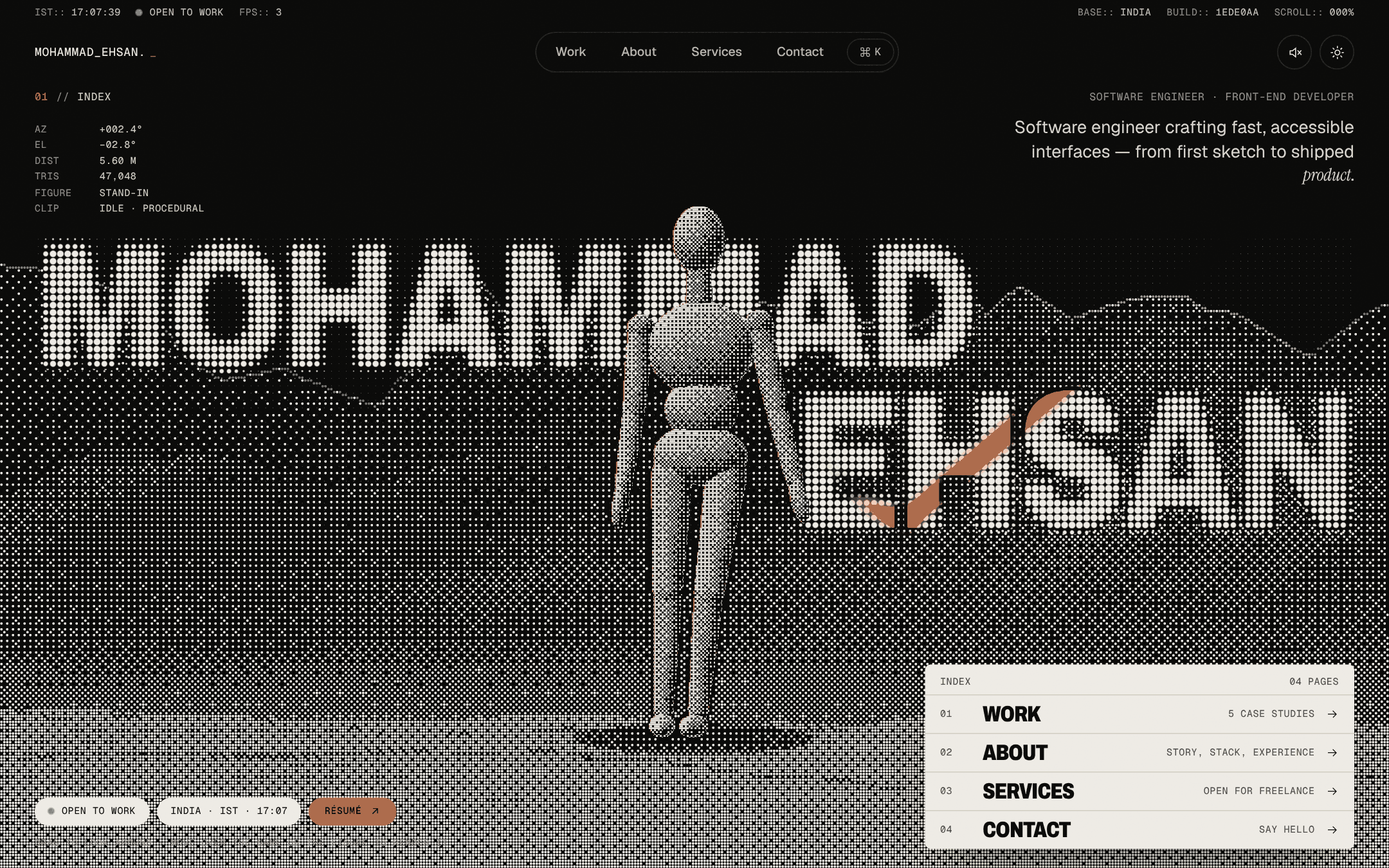
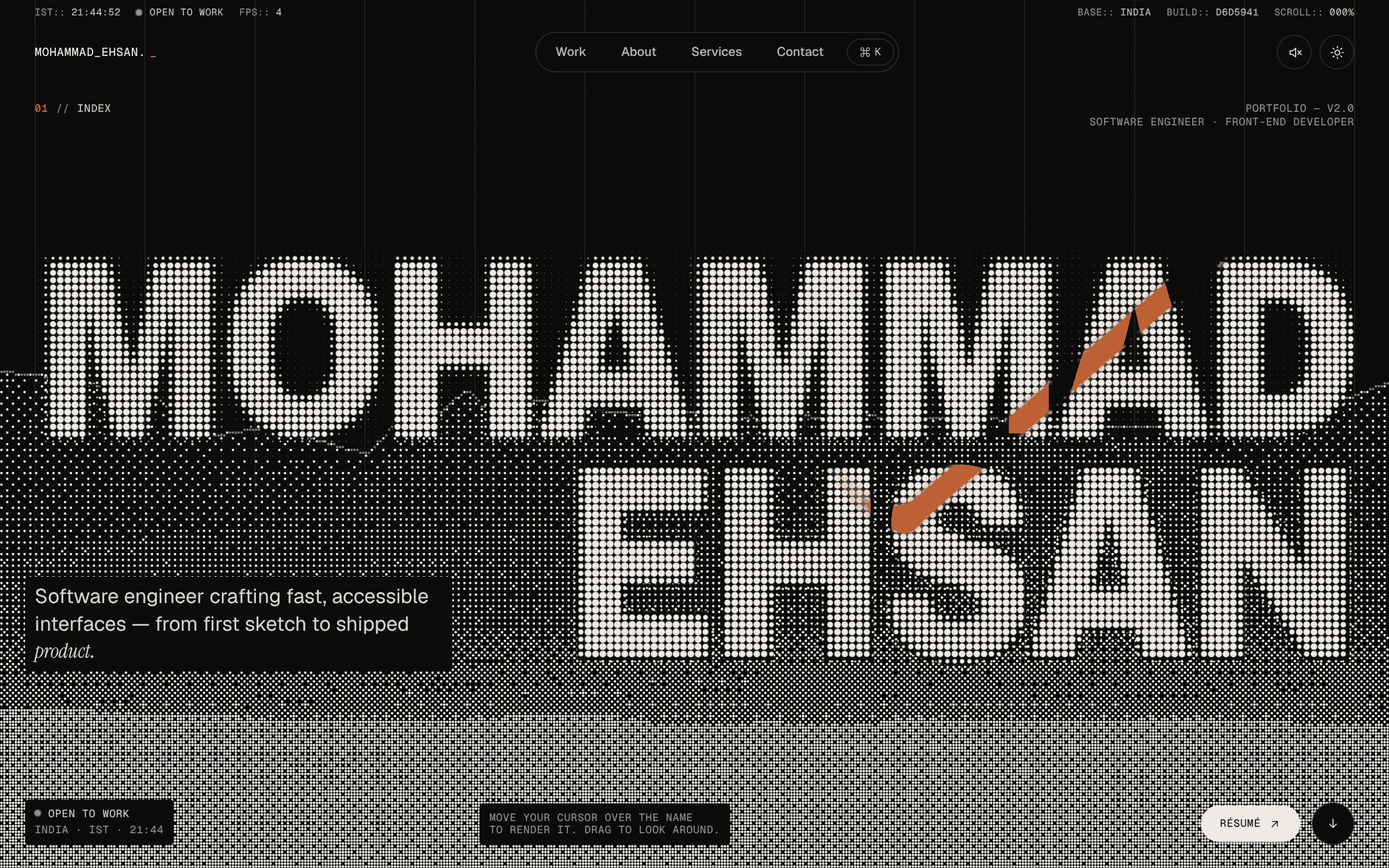
Update the docs and case study for the restored home
The README describes the hero's ridge and how your model stands on it, and drops the mannequin and the ?figure=standin flag. The asset prompts mention the work reel again, and the case study has new hero screenshots in ink and paper.

diff --git a/content/projects.ts b/content/projects.ts
@@ -225,7 +225,7 @@ export const projects: Project[] = [
         type: "features",
         label: "Under the hood",
         items: [
-          { title: "A home page in 3D", body: "A figure on a ring of dithered hills, in front of a halftone name you paint with the cursor. The cursor also renders the figure in full colour, and dragging orbits the camera." },
+          { title: "Ink-field hero", body: "A WebGL halftone of my name over a dithered 3D ridge. Paint it with the cursor, or drag to look around." },
           { title: "Blueprint → render images", body: "Project images render as edge-detected blueprints and resolve to colour with a scanline sweep." },
           { title: "Dither page transitions", body: "An ordered-dither wipe and a shared-element morph between pages." },
           { title: "⌘K command menu", body: "Keyboard-first navigation and actions from anywhere on the site." },
@@ -237,7 +237,7 @@ export const projects: Project[] = [
         label: "Stack",
         items: [
           { name: "Next.js 16 + React 19", why: "Static, server-rendered pages with client islands." },
-          { name: "OGL", why: "A small WebGL layer (about 13 KB gzipped, plus a 10 KB scene on the home page) for the shaders, render targets, planes and the 3D stage." },
+          { name: "OGL", why: "A small WebGL layer (about 13 KB gzipped, plus a 9 KB scene on the home page) for the shaders, render targets, planes and the hero's 3D ridge." },
           { name: "GSAP + Lenis", why: "Scroll-linked motion, split-text and smooth scrolling on one ticker." },
           { name: "Tailwind CSS 4", why: "Design tokens in CSS, themes via data attributes." },
           { name: "EmailJS", why: "Serverless contact form." },
@@ -247,9 +247,9 @@ export const projects: Project[] = [
         type: "gallery",
         label: "Screens",
         images: [
-          { src: "/media/work/personal-portfolio/shot-1.webp", alt: "Home stage: a dithered figure on a ridge in front of the halftone name, with an orange stroke painted across it", caption: "Home — paint the name, render the figure" },
+          { src: "/media/work/personal-portfolio/shot-1.webp", alt: "The hero: the halftone name over a dithered ridge, with an orange stroke painted across it", caption: "Hero — paint the name over the ridge" },
           { src: "/media/work/personal-portfolio/shot-2.webp", alt: "The work field: a drag-through grid of project tiles with one picture open in the middle", caption: "Work — the endless GRID field" },
-          { src: "/media/work/personal-portfolio/shot-3.webp", alt: "The home stage on the paper theme, with the figure and name in ink", caption: "Paper theme" },
+          { src: "/media/work/personal-portfolio/shot-3.webp", alt: "The hero on the paper theme, with the name and the ridge in ink", caption: "Paper theme" },
           { src: "/media/work/personal-portfolio/shot-4.webp", alt: "The Services page with the process cards fanned out and the list of offerings", caption: "Services — the process deck" },
         ],
       },

diff --git a/README.md b/README.md
@@ -5,24 +5,24 @@ Personal portfolio of **Mohammad Ehsan**, software engineer and front-end develo
 Live: <https://mohammadehsan.vercel.app>
 
 The site behaves like a renderer. Everything starts as a blueprint (halftone dots, wireframes, mono annotations) and resolves into final pixels as you interact with it:
-- **Home:** one stage. A 3D figure stands on a dithered ridge in front of the giant halftone name; your cursor paints the name signal orange and "renders" the figure in full colour. Drag to look around.
+- **Hero:** paint the giant halftone name with your cursor to "render" it in signal orange. A dithered 3D ridge sits behind it, and your own 3D model can stand on it.
 - **Project images:** they start as edge-detected blueprints and develop into colour as they scroll into view.
 - **Page navigation:** pages "compile" through an ordered-dither wipe, or morph from a project card into its case study.
 - **`/work`:** three views behind a LIST · WHEEL · GRID switcher, all of them endless. LIST and WHEEL are a looping strip of big titles with a preview card; GRID is a drag-through field where the middle of the screen renders in colour while the edges stay blueprint.
 
 ## Highlights
 
-**WebGL** (OGL, loaded after first paint and only on desktop pointers: the engine is about 13 KB gzipped; the home scene adds about 10 KB, and the model loader about 8 KB once you add a model):
-- The home scene: terrain and figure render offscreen (two outputs plus depth), then are composited as ordered dither. The ground is drawn before the painted name and the figure after it, so the name sits between them.
-- The figure is a procedural wooden mannequin until you add your own GLB (rigged and animated models work); see [The home scene and your 3D model](#the-home-scene-and-your-3d-model).
-- An ink-field name driven by a ping-pong trail simulation that spans the whole stage, with click ripples and an idle autopilot.
+**WebGL** (OGL, loaded after first paint and only on desktop pointers: the engine is about 13 KB gzipped; the hero's 3D scene adds about 9 KB on the home page, and the model loader about 8 KB once you add a model):
+- The hero's ridge: the terrain (and your model, once added) renders offscreen with two outputs plus depth, then is composited as ordered dither. The ground is drawn before the painted name and the figure after it, so the name sits between them.
+- Your own GLB stands on the ridge once you add it; rigged and animated models work. See [The hero's ridge and your 3D model](#the-heros-ridge-and-your-3d-model).
+- An ink-field name driven by a ping-pong trail simulation that spans the whole hero, with click ripples and an idle autopilot.
 - Blueprint→render image planes synced to the DOM.
 - A shared-element morph into each case study, from a project card or from the work field's open picture.
 - The work field's backdrop: noise density computed once per dither cell, then ordered-dithered to the screen, with the cursor trail tearing holes in it.
 
 **Motion** (GSAP + Lenis on a single ticker):
-- Split-text reveals and a scroll-scrubbed manifesto on /about.
-- Tilted service cards that fan out on /services.
+- Split-text reveals and a scroll-scrubbed manifesto (on the home intro and /about).
+- A sticky horizontal work reel on the home page, and tilted service cards that fan out on /services.
 - Variable-font letters that react to the cursor.
 - Scramble titles and magnetic buttons.
 
@@ -50,7 +50,7 @@ The site behaves like a renderer. Everything starts as a blueprint (halftone dot
 - Reduced motion and crawlers start on LIST; no-JS visitors get a plain list of links (it stays in the page as a keyboard list that appears when focused). The camera and strip positions are kept for the session.
 
 **Pages:**
-- Home: one stage, with your name, intro, availability, résumé and an index into every page. No long scroll and no footer.
+- Home: the hero with its ridge, the manifesto, a sticky horizontal reel of selected work, capabilities and experience.
 - `/work` (LIST · WHEEL · GRID) and 5 static case studies with scroll-to-advance.
 - `/about`: the manifesto, story, stamp portrait, live telemetry card and experience.
 - `/services`: the process deck, what I can build, capabilities and a call to action.
@@ -60,7 +60,7 @@ The site behaves like a renderer. Everything starts as a blueprint (halftone dot
 **Built to degrade gracefully:**
 - All content is server-rendered HTML.
 - Reduced motion turns off smooth scroll, pinning and WebGL.
-- Touch devices get CSS halftones instead of WebGL. The home stage shows the same skyline as a dot screen, plus your cut-out still once you export one.
+- Touch devices get CSS halftones instead of WebGL. The hero shows the same ridge as a dot screen, plus your cut-out still once you export one.
 - No-JS visitors get the complete page.
 - Losing the WebGL context falls back to the DOM.
 
@@ -106,9 +106,8 @@ pnpm dev                     # http://localhost:3000
 | `?boot=0` | Skip the boot preloader |
 | `?view=grid` / `list` / `wheel` | Force a `/work` view for this visit |
 | `?cursor=mac` / `?cursor=system` | Force the Mac pointer or the system cursor for this visit |
-| `?figure=standin` | Dev only: show the mannequin even when your model exists |
 | `?figure=still` | Dev only: export the phone still of the figure (see below) |
-| `?figure=/media/hero/_test/x.glb` | Dev only: try another GLB in the home scene |
+| `?figure=/media/hero/_test/x.glb` | Dev only: try another GLB on the hero's ridge |
 
 ## Editing content
 
@@ -119,7 +118,7 @@ All copy lives in typed modules under `content/`. Nothing is hard-coded in compo
 | `content/site.ts` | Name, role, links, résumé, location/timezone, availability, hero subline, manifesto, about page, and `nav` (the header, menu, footer, ⌘K and the home index all read it) |
 | `content/projects.ts` | The 5 case studies, built from blocks (`text`, `features`, `stack`, `gallery`, `stats`, `status`) |
 | `content/experience.ts` | Roles. The Infotact description is a draft to refine. |
-| `content/capabilities.ts` | Skill groups on /services (also feeds the marquee and /about's toolbox) |
+| `content/capabilities.ts` | Skill groups on the home page and /services (also feeds the marquee and /about's toolbox) |
 | `content/services.ts` | /services: the intro, process cards and offerings (no prices) |
 | `content/music.ts` | The playlist behind the scrollbar's ♪ (built-in pieces, or your own MP3s) |
 
@@ -144,15 +143,14 @@ Drop files at the documented paths and rebuild. They are picked up automatically
 
 Prompts for every asset are in **[`docs/ASSET_PROMPTS.md`](docs/ASSET_PROMPTS.md)**.
 
-## The home scene and your 3D model
+## The hero's ridge and your 3D model
 
-The home page is one stage (`components/home/HomeStage.tsx`). Your name, intro, availability, résumé and the index into every page are real HTML. On desktop WebGL, `lib/gl/scene.ts` draws the scene behind them:
-- **Ground:** a ring of hills built from one height function (`lib/gl/terrain.ts`), dithered in 3 px dots, with contour lines that glow orange under the cursor. The same function places the feet and draws the dot-screen fallback on the server.
-- **Figure:** dithered in 2 px cells with an RGB split at its edges. Under the cursor it shows the "render": full colour with an orange rim.
-- **Camera:** drag to orbit, wheel to move closer or further. The pointer adds a little parallax, and when you leave it alone the stage drifts and settles back to the hero framing.
-- **Readouts:** the HUD shows the live camera angles, distance, triangle count, figure and clip.
+The hero (`components/home/Hero.tsx`) is your name as a giant halftone, in real HTML. On desktop WebGL, `lib/gl/scene.ts` draws a scene behind it:
+- **Ground:** a ring of hills built from one height function (`lib/gl/terrain.ts`), dithered in 3 px dots, with contour lines that glow orange under the cursor. The same function places your model's feet and draws the dot-screen fallback on the server.
+- **Your model,** once added: dithered in 2 px cells with an RGB split at its edges, standing in front of your name. Under the cursor it shows the "render": full colour with an orange rim.
+- **Camera:** drag to orbit. The pointer adds a little parallax, and when you leave it alone the view drifts and settles back to the front.
 
-Without your model, a procedural wooden mannequin stands in.
+Until you add a model, the ridge shows on its own.
 
 **Adding your model:**
 1. Put `me.glb` in `public/media/hero/`.
@@ -228,16 +226,16 @@ app/          routes (/, /work, /work/[slug], /about, /services, /contact, 404),
 content/      all copy and data (typed)
 components/
   chrome/     HUD, header, mobile menu, cursor, dynamic scrollbar + music player, footer + SAY HELLO, stickers, preloader, ⌘K palette
-  home/       the stage (name, intro, readouts), its server-drawn fallback, the index card
+  home/       hero (+ the ridge's server-drawn fallback), intro / manifesto, work reel
   services/   process deck + offerings, capabilities, call to action
   contact/    the contact form and details
   work/       work views (switcher, title reel, field), project media, case blocks, next project
-  about/      manifesto, stamp portrait, telemetry card, experience
+  about/      stamp portrait, telemetry card, experience
   transition/ transition link, route watcher, wipe/morph layer
   gl/         the WebGL canvas
 lib/
   gl/         OGL engine, shaders, procedural posters/text masks, DOM↔GL registry;
-              the home scene: scene + scene-shaders, terrain (ground + camera framing), mannequin, figure-glb (lazy model loader)
+              the hero's 3D scene: scene + scene-shaders, terrain (ground + camera framing), figure-glb (lazy model loader)
   motion/     GSAP registration + eases, Lenis handle
   field/      the /work views: field geometry + physics, title-reel physics, lightbox, view store, tile lists (built from content at build time)
   music/      the site-wide music player and the built-in Web Audio pieces
@@ -271,8 +269,8 @@ lib/
 - Reduced motion is respected everywhere, including an override through the pre-paint script.
 - The custom pointer can be switched off from ⌘K ("Use system cursor") for anyone who relies on a larger OS cursor.
 - The scrollbar is a real button that blooms on keyboard focus. The player is a labelled dialog and its timeline is a slider; Esc returns focus to ♪, and ⌘K can play or pause the music.
-- The home stage is real HTML first. The 3D scene behind it is decorative, and every page it leads to is a link in the index card and the header.
-- Initial JS on `/` is about 270 KB gzipped (React 19 + GSAP make up most of it). The WebGL engine (about 13 KB), the home scene (about 10 KB, home only), the model loader (about 8 KB, only with a model) and the palette load later.
+- The hero's 3D ridge is decorative; all text and links are real HTML.
+- Initial JS on `/` is about 273 KB gzipped (React 19 + GSAP make up most of it). The WebGL engine (about 13 KB), the hero's scene (about 9 KB, home only), the model loader (about 8 KB, only with a model) and the palette load later.
 
 ## Deployment
 

diff --git a/docs/ASSET_PROMPTS.md b/docs/ASSET_PROMPTS.md
@@ -37,7 +37,7 @@ Suggested tools: Midjourney v7, Imagen, Flux or Firefly for stills; Veo, Sora, K
 
 | # | Save as | Used in | Prompt |
 |---|---|---|---|
-| 1 | `public/media/work/adaptive-learning/cover.jpg` | `/work`, case-study hero, OG | Overhead editorial still life on an ink-black surface: dozens of small bone-white paper index cards arranged as a branching path that splits and reconverges like a learning roadmap; one continuous signal-orange (#FF4D00) thread tracing a single personalised route through them; a few cards marked with tiny pencil check marks; soft raking light, deep shadows, macro paper-fibre detail; minimal, generous negative space, subtle film grain |
+| 1 | `public/media/work/adaptive-learning/cover.jpg` | Work reel, `/work`, case-study hero, OG | Overhead editorial still life on an ink-black surface: dozens of small bone-white paper index cards arranged as a branching path that splits and reconverges like a learning roadmap; one continuous signal-orange (#FF4D00) thread tracing a single personalised route through them; a few cards marked with tiny pencil check marks; soft raking light, deep shadows, macro paper-fibre detail; minimal, generous negative space, subtle film grain |
 | 2 | `public/media/work/task-management-app/cover.jpg` | Same | Top-down flat lay on charcoal felt: a precise Swiss grid of bone-white paper task cards with hand-drawn checkboxes, several ticked in signal-orange (#FF4D00) ink; smaller subtask cards clipped beneath their parents with black binder clips; one card lifted at an angle casting a crisp shadow; controlled overhead softbox light; minimal editorial still life, subtle film grain |
 | 3 | `public/media/work/seva/cover.jpg` | Same (concept art, in development) | Cinematic still life on dark slate: everyday service tools — a wrench, a paint brush, scissors, a screwdriver, a stethoscope, a sponge — arranged in a perfect radial ring around a single glossy signal-orange (#FF4D00) map pin standing at the centre; hard top light with long shadows; ink-black falloff; matte textures; symmetrical, minimal, editorial product photography, film grain |
 | 4 | `public/media/work/desi-etsy/cover.jpg` | Same (concept art, in development) | Editorial still life of handmade Asian crafts on an ink-black plinth — a hand-thrown unglazed clay cup, folded indigo block-printed cotton, a hammered brass bowl, a woven bamboo coaster — lit by one narrow beam of warm light; a single saffron-orange (#FF4D00) silk thread draped across the composition; rich tactile textures, deep shadows; medium format, minimal, generous negative space, film grain |
@@ -47,7 +47,7 @@ Suggested tools: Midjourney v7, Imagen, Flux or Firefly for stills; Veo, Sora, K
 
 **Status:** not generated yet.
 
-When a `loop.mp4` exists, it plays muted in place of the still on `/work` and in the case hero, with the cover as its poster. It's paused when the visitor prefers reduced motion.
+When a `loop.mp4` exists, it plays muted in place of the still on the reel, on `/work` and in the case hero, with the cover as its poster. It's paused when the visitor prefers reduced motion.
 
 Adding a loop has a trade-off: that project loses the WebGL blueprint effect and the card→case morph, which work on stills only.
 
@@ -62,7 +62,7 @@ Adding a loop has a trade-off: that project loses the WebGL blueprint effect and
 |---|---|---|
 | 8 | `public/media/work/adaptive-learning/shot-1.webp` … `shot-4.webp` (+ `loop.mp4`) | At 1440×900: the home screen, a learning path, the schedule, and progress tracking. Plus a 10 s screen recording scrolling through a flow, cropped to 16:10. |
 | 9 | `public/media/work/task-management-app/shot-1.webp` … `shot-3.webp` | The task board, a task with subtasks, and the sign-in screen (run the app locally) |
-| 10 | `public/media/work/personal-portfolio/shot-*.webp` | Screens of this site (the home stage, the /work field, the paper theme, /services) |
+| 10 | `public/media/work/personal-portfolio/shot-*.webp` | Screens of this site (the hero, the /work field, the paper theme, /services) |
 
 If you'd rather have the agent capture item 8 automatically, add `aiadaptivelearning.netlify.app` to the cloud environment's **Allowed domains**.
 
